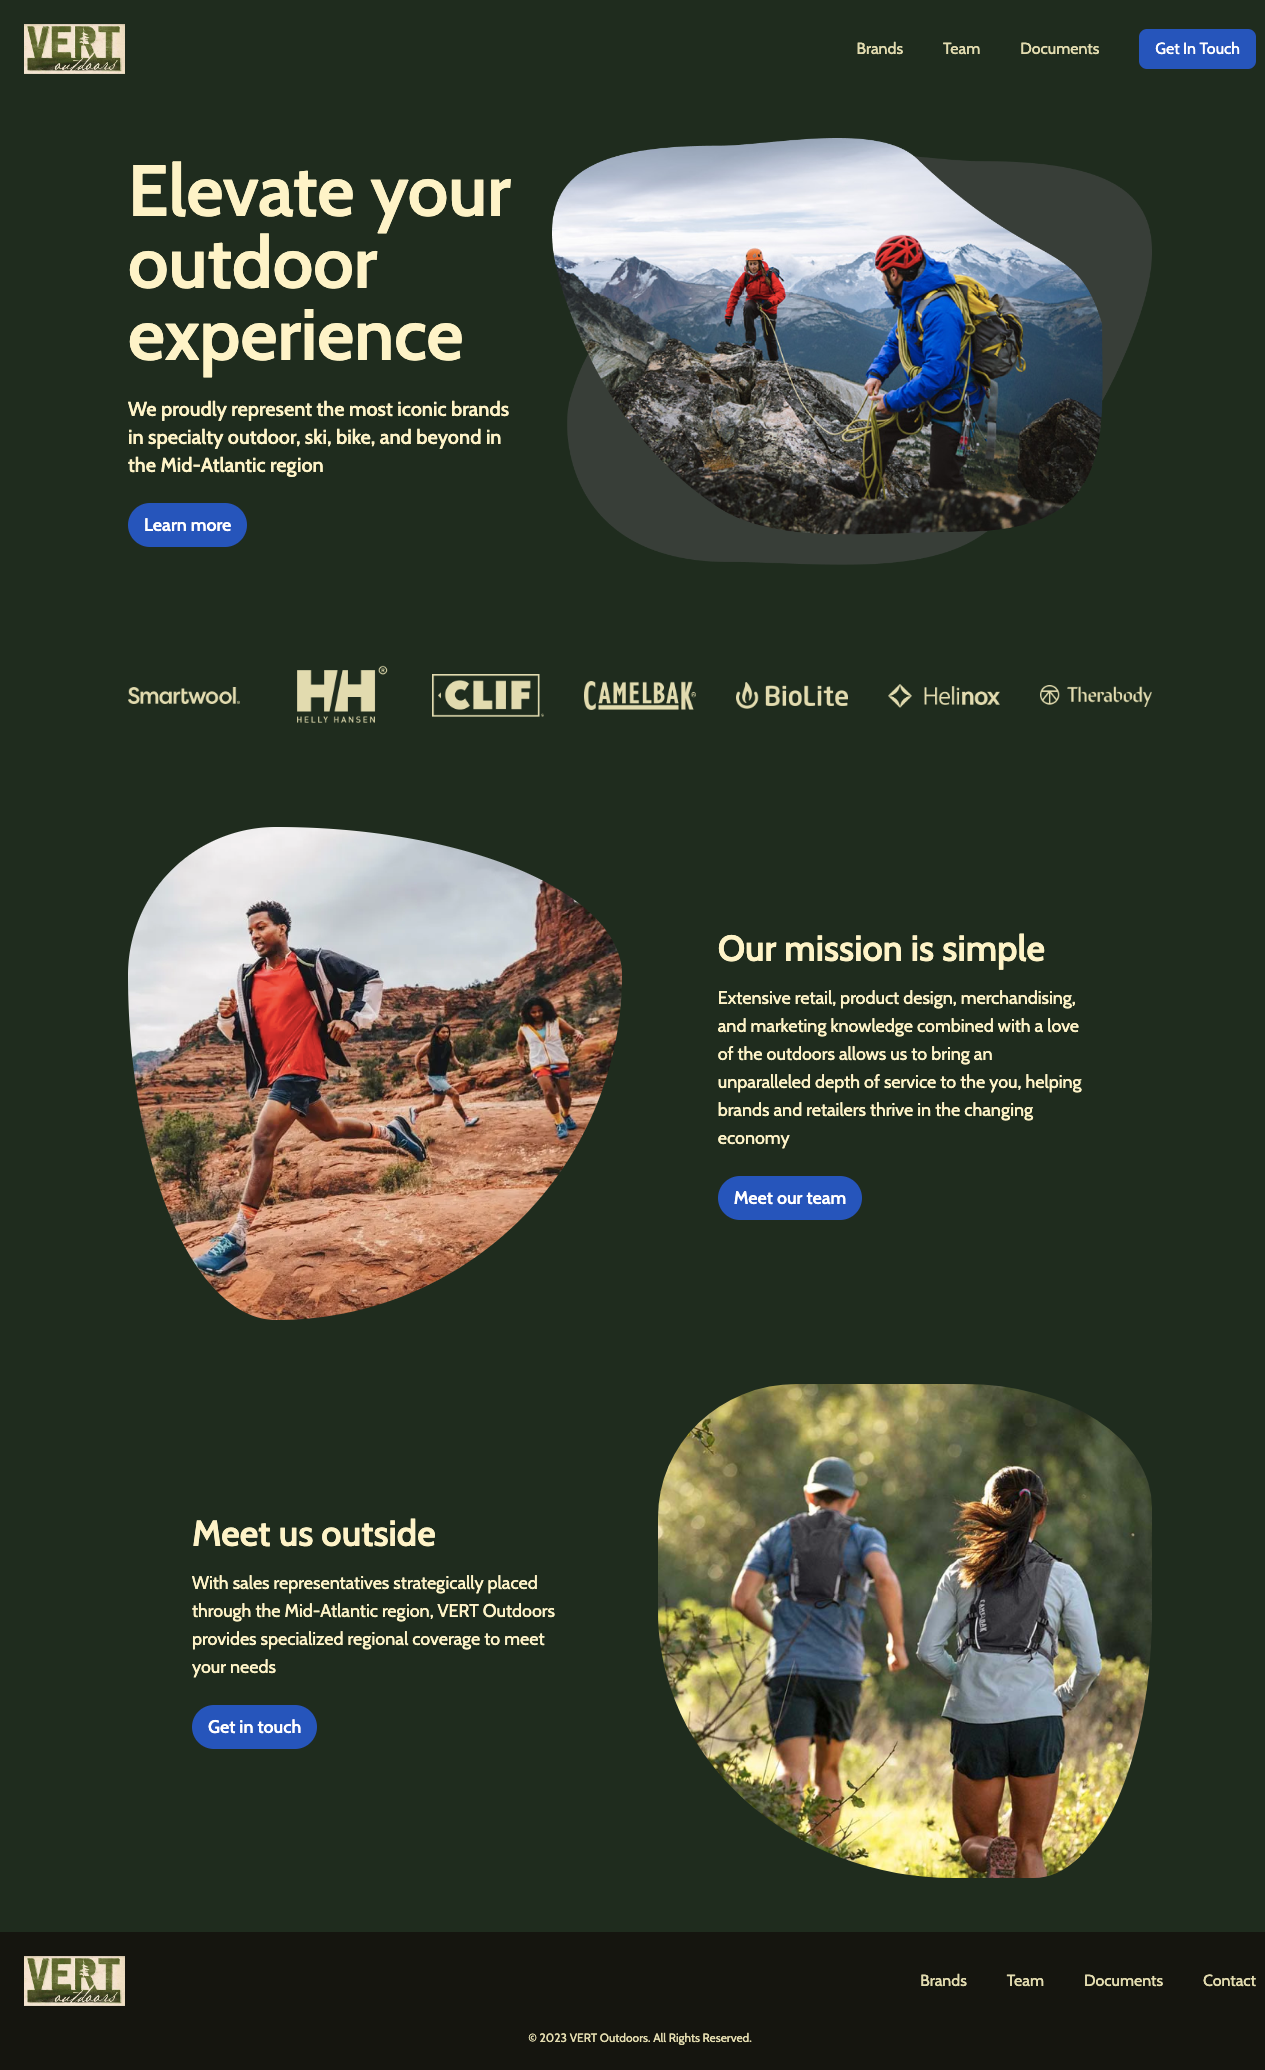
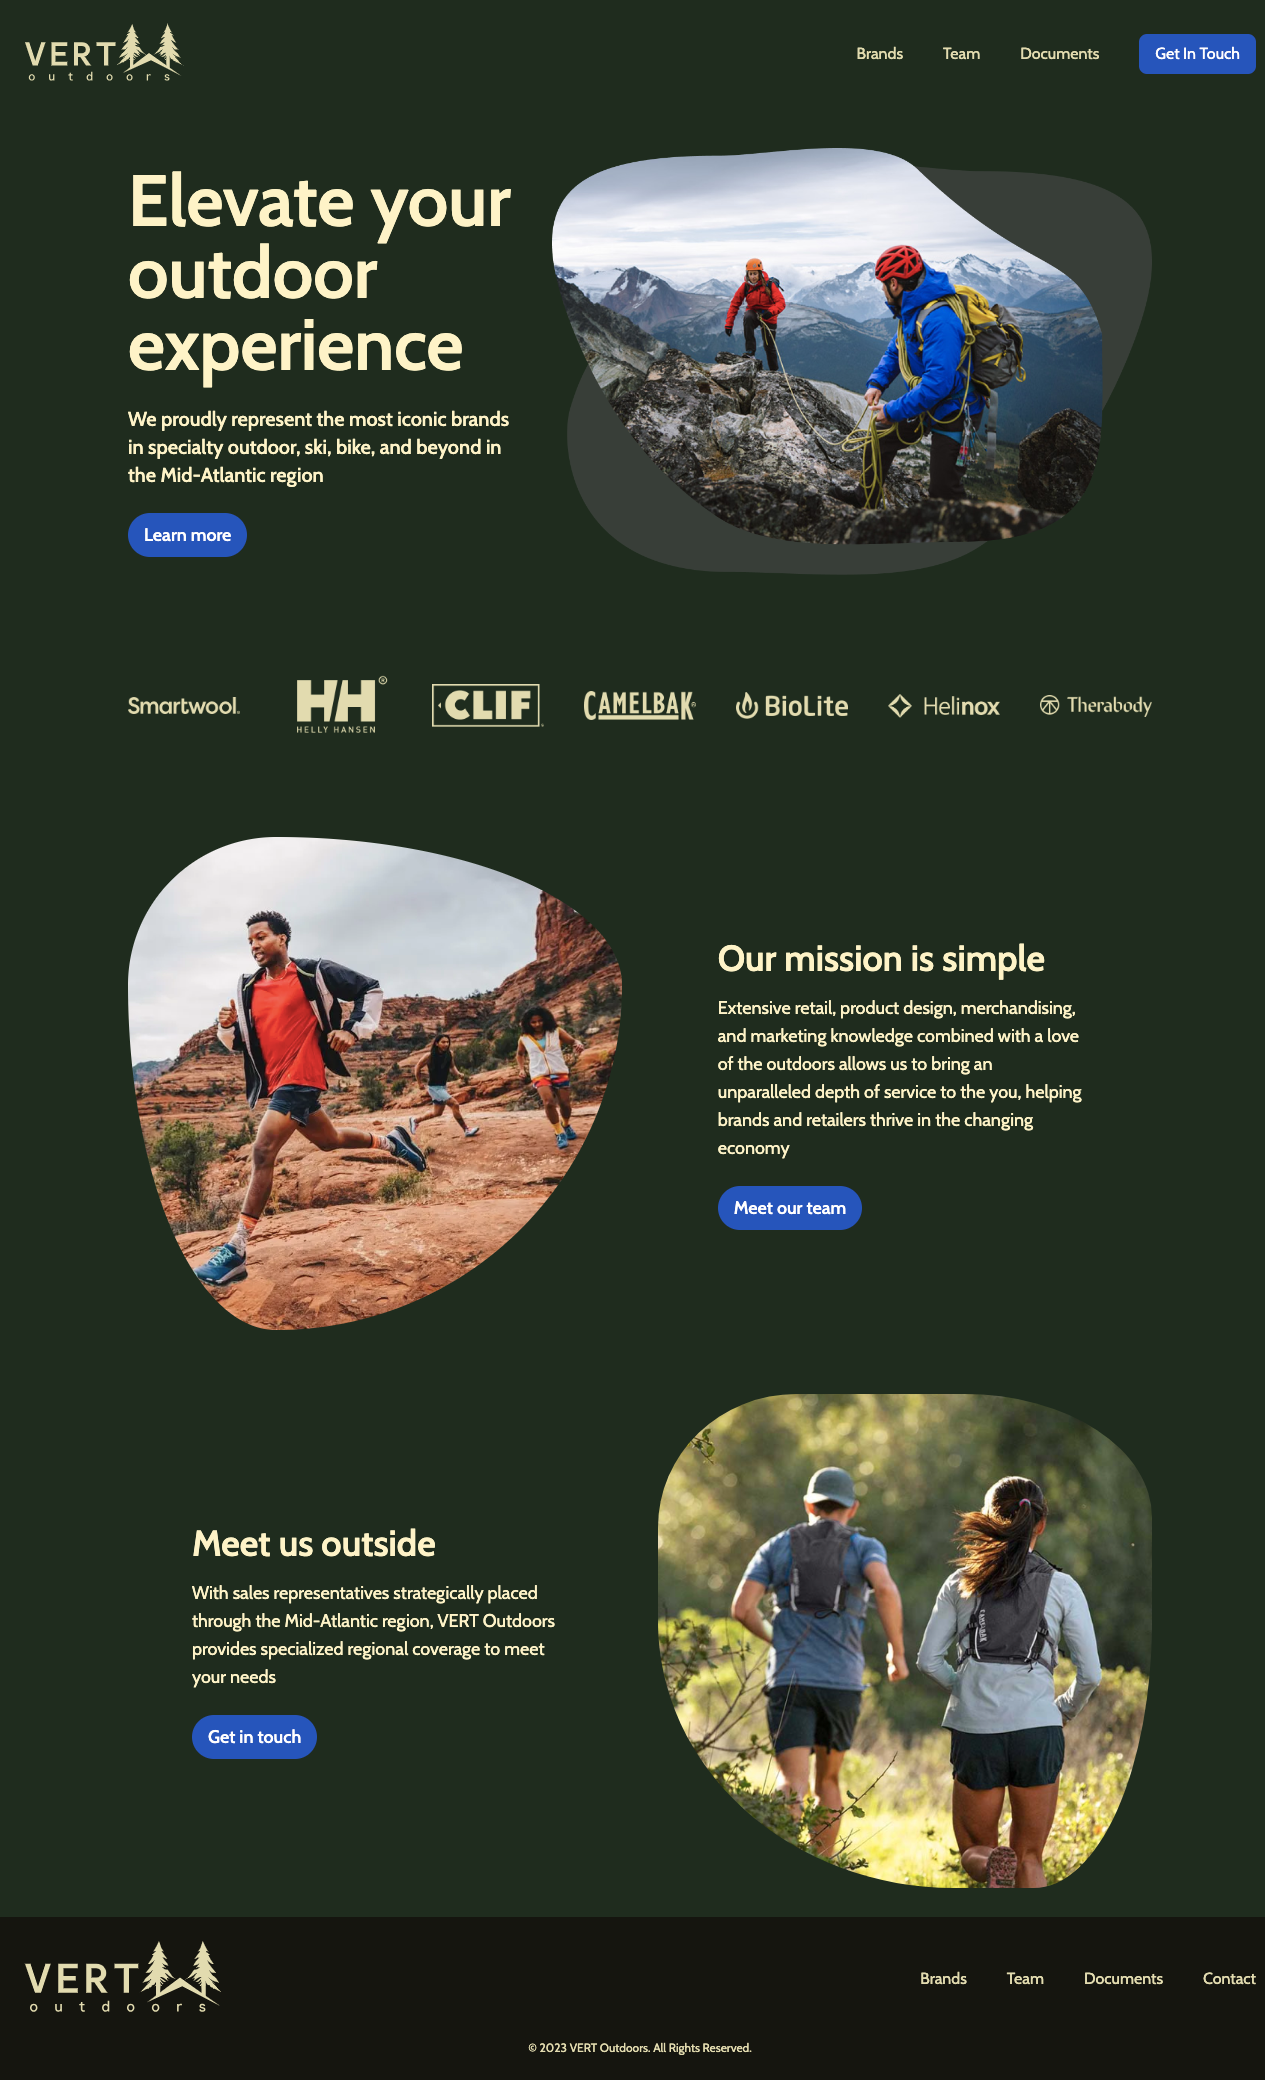
updated vert project

diff --git a/src/app/work/page.jsx b/src/app/work/page.jsx
@@ -46,7 +46,7 @@ export default function WorkPage() {
             projectName={"vert outdoors"}
             monthAndYear={"september 2023"}
             technologies={
-              "frontend development, headless development, web design, webmaster services, domains & hosting, nuxt, sanity, tailwind, figma, vercel"
+              "frontend development, headless development, web design, logo design, webmaster services, domains & hosting, nuxt, sanity, tailwind, figma, vercel"
             }
             ctaText={"check it out"}
           ></PhotoRightCard>
